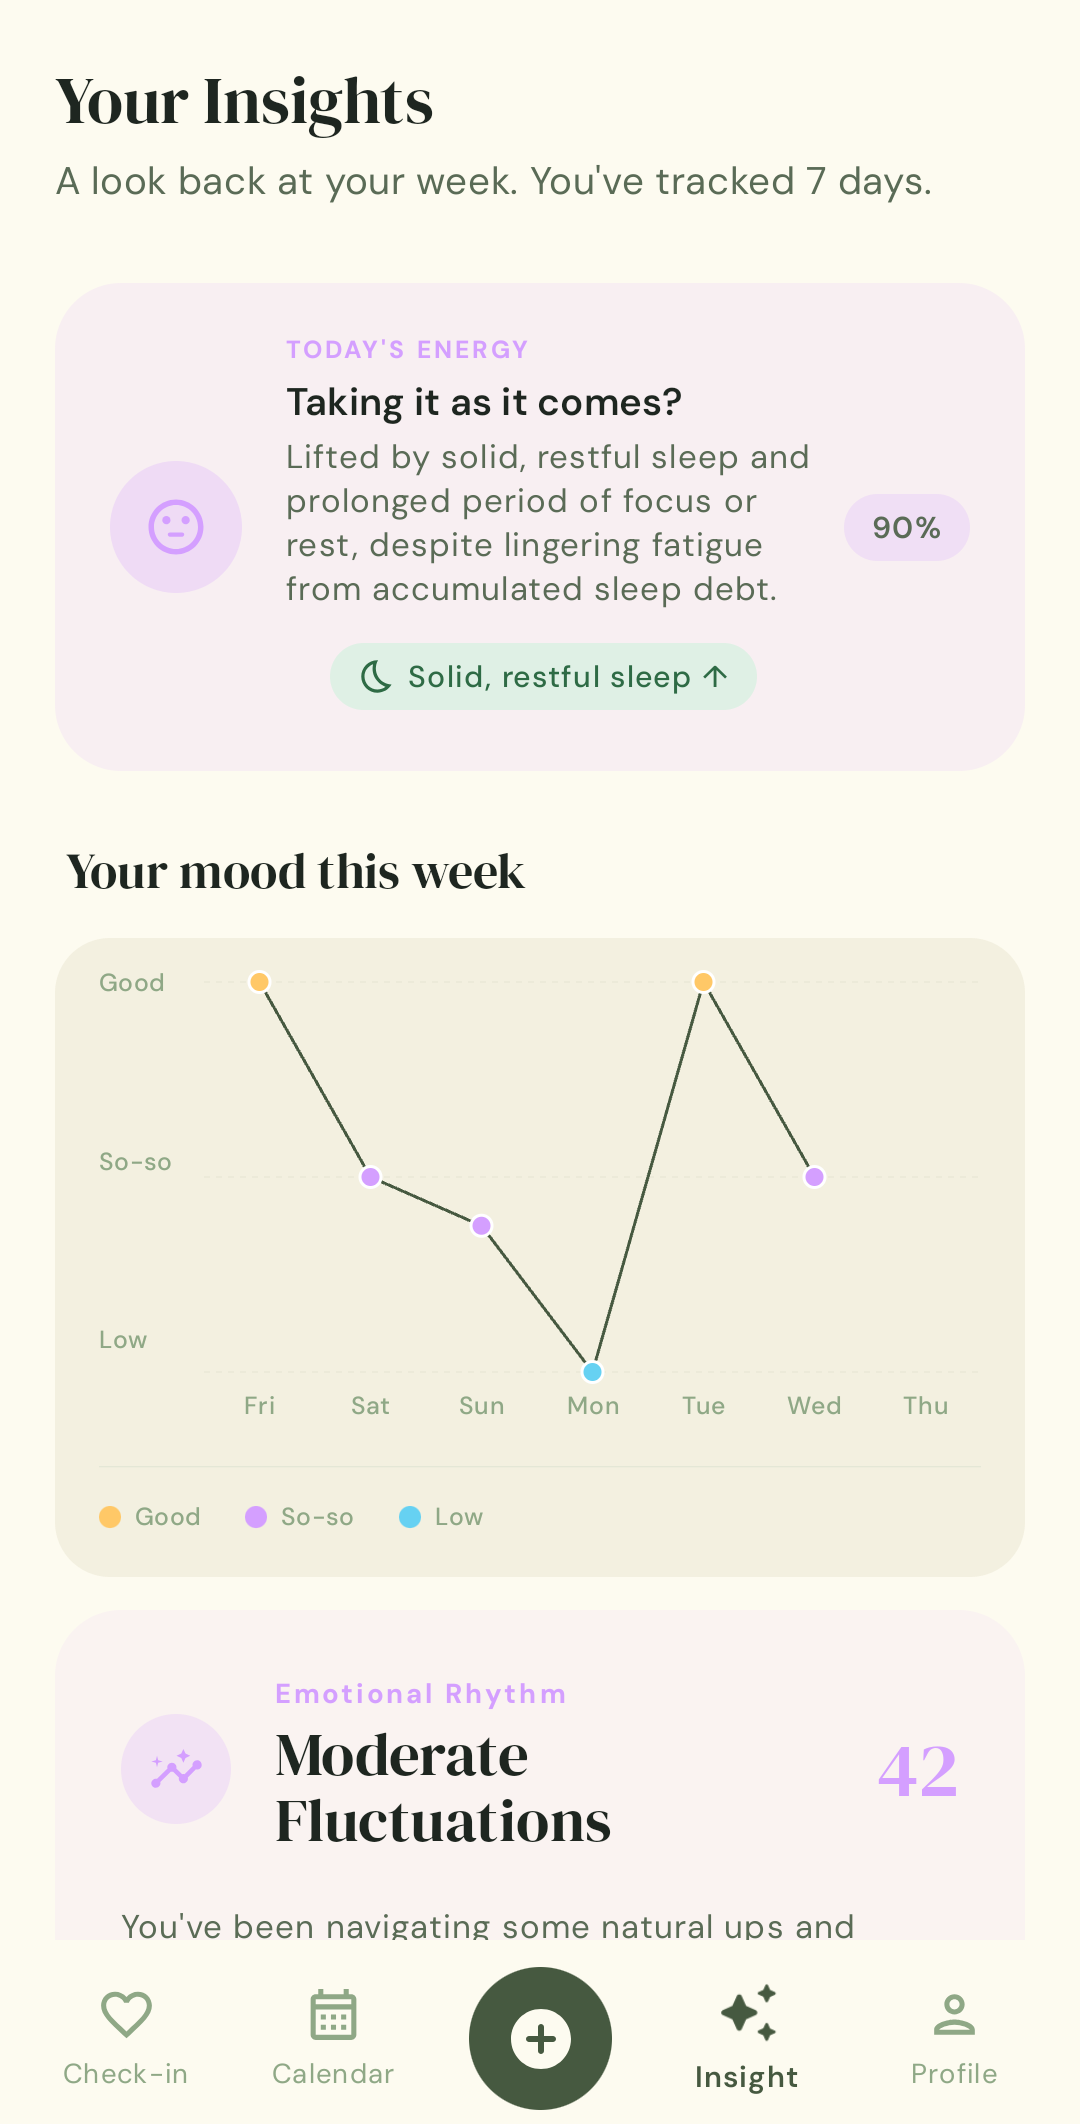
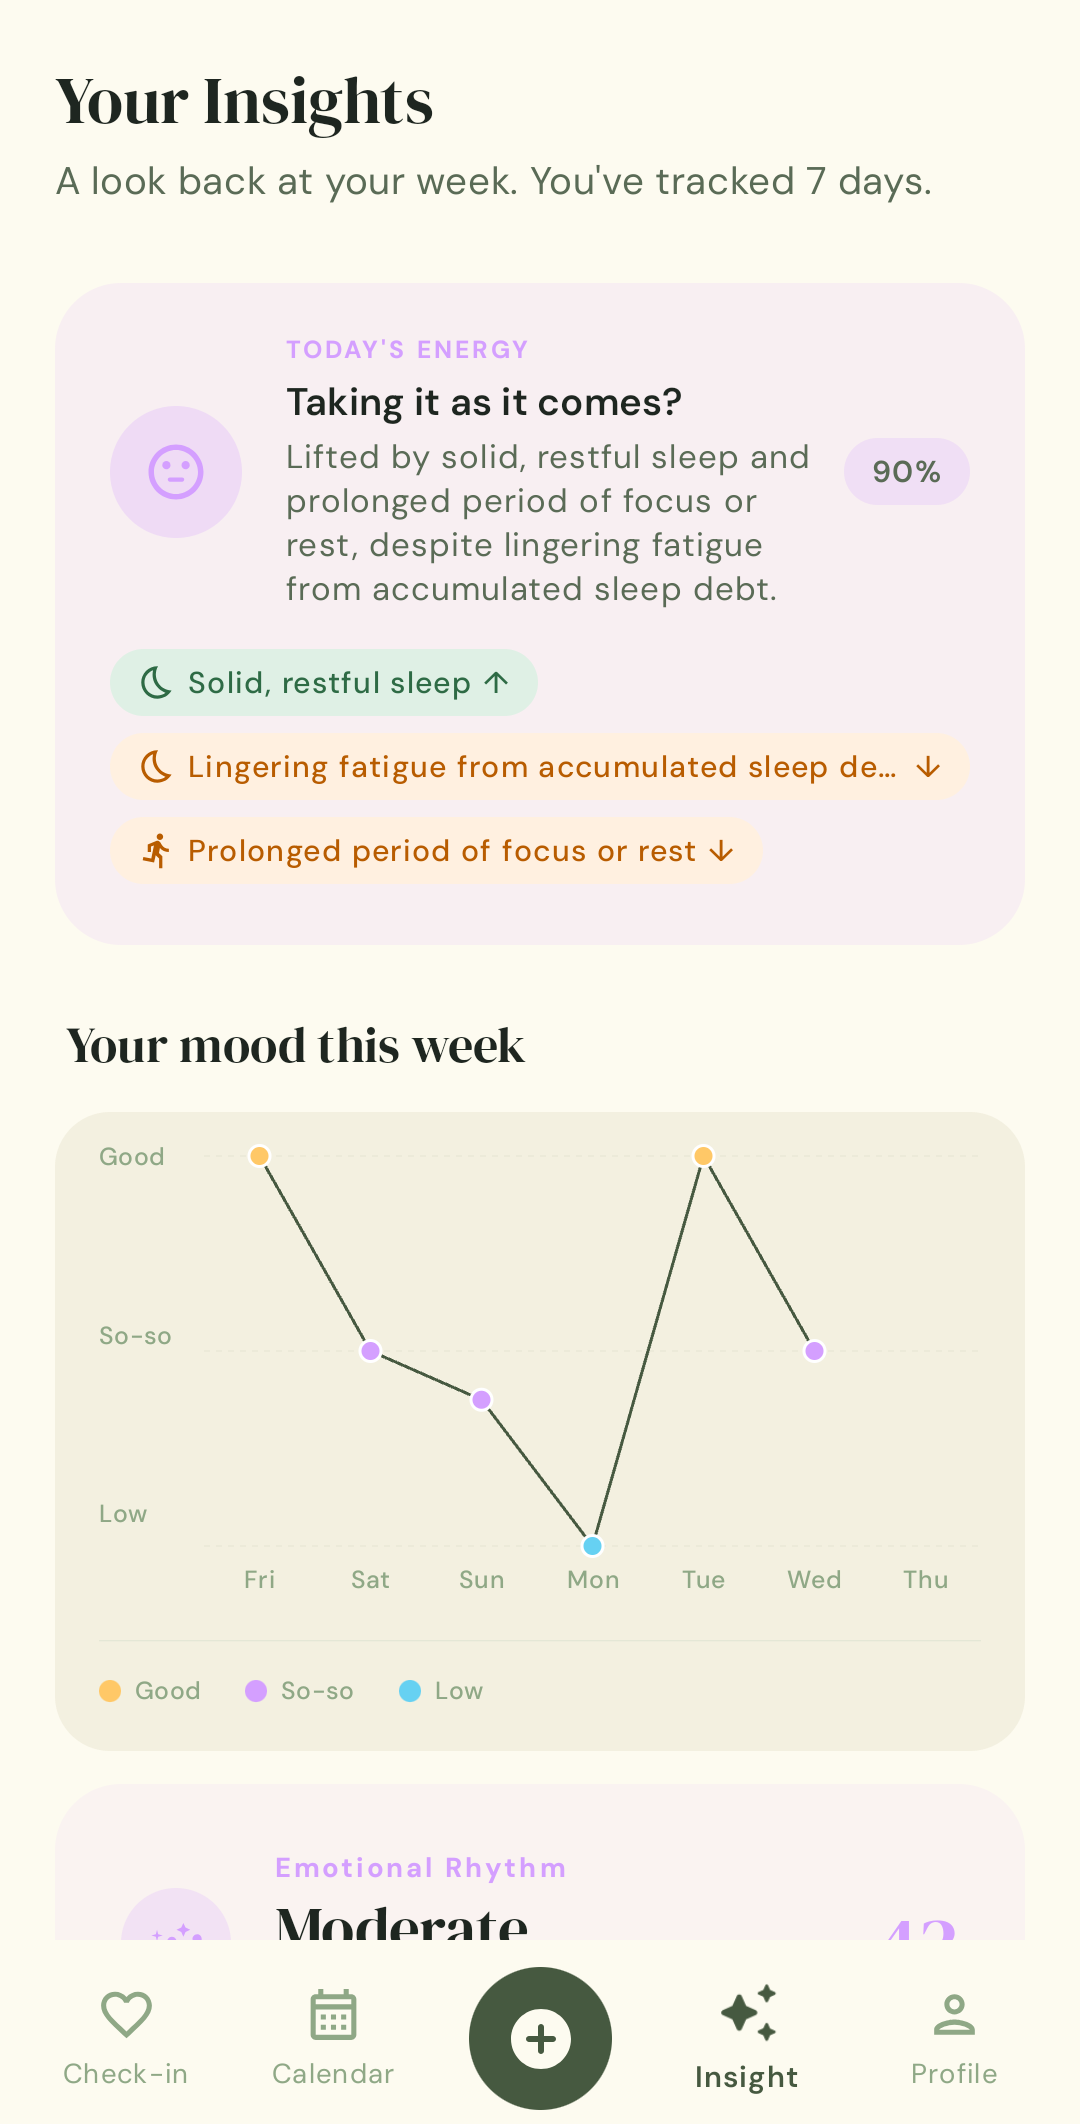
docs: retake the insight overview screenshot with all three driver chips
The previous frame was captured before the chip layout fix and showed
only the first driver. Recapture it on the same device profile and
adjust the alt text to match.

diff --git a/README.md b/README.md
@@ -27,7 +27,7 @@ Everything runs on-device. No accounts, no servers, no telemetry. Nothing leaves
   <tr>
     <td align="center"><img src="docs/screenshots/01-check-in.png" width="220" alt="Check-in home"/><br/><sub><b>Check-in home</b></sub></td>
     <td align="center"><img src="docs/screenshots/02-quick-log.png" width="220" alt="Quick log sheet with a note and a time picker"/><br/><sub><b>Quick log, note and time</b></sub></td>
-    <td align="center"><img src="docs/screenshots/03-insight-overview.png" width="220" alt="Insight overview with an inferred mood card and a driver chip"/><br/><sub><b>Insight overview and drivers</b></sub></td>
+    <td align="center"><img src="docs/screenshots/03-insight-overview.png" width="220" alt="Insight overview with an inferred mood card and its driver chips"/><br/><sub><b>Insight overview and drivers</b></sub></td>
   </tr>
   <tr>
     <td align="center"><img src="docs/screenshots/04-insight-screen.png" width="220" alt="Sleep tab showing seven nights, one of them logged by hand"/><br/><sub><b>Sleep, with a logged night</b></sub></td>
